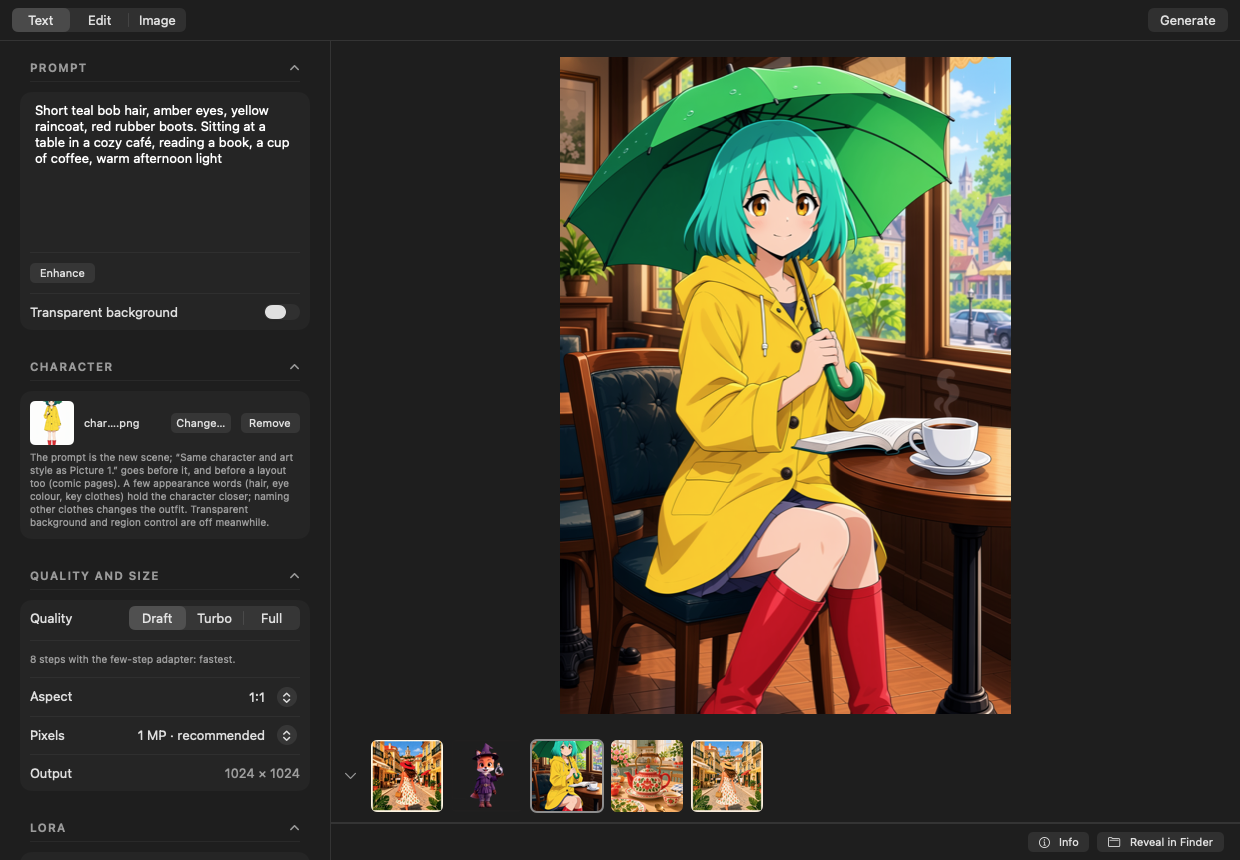
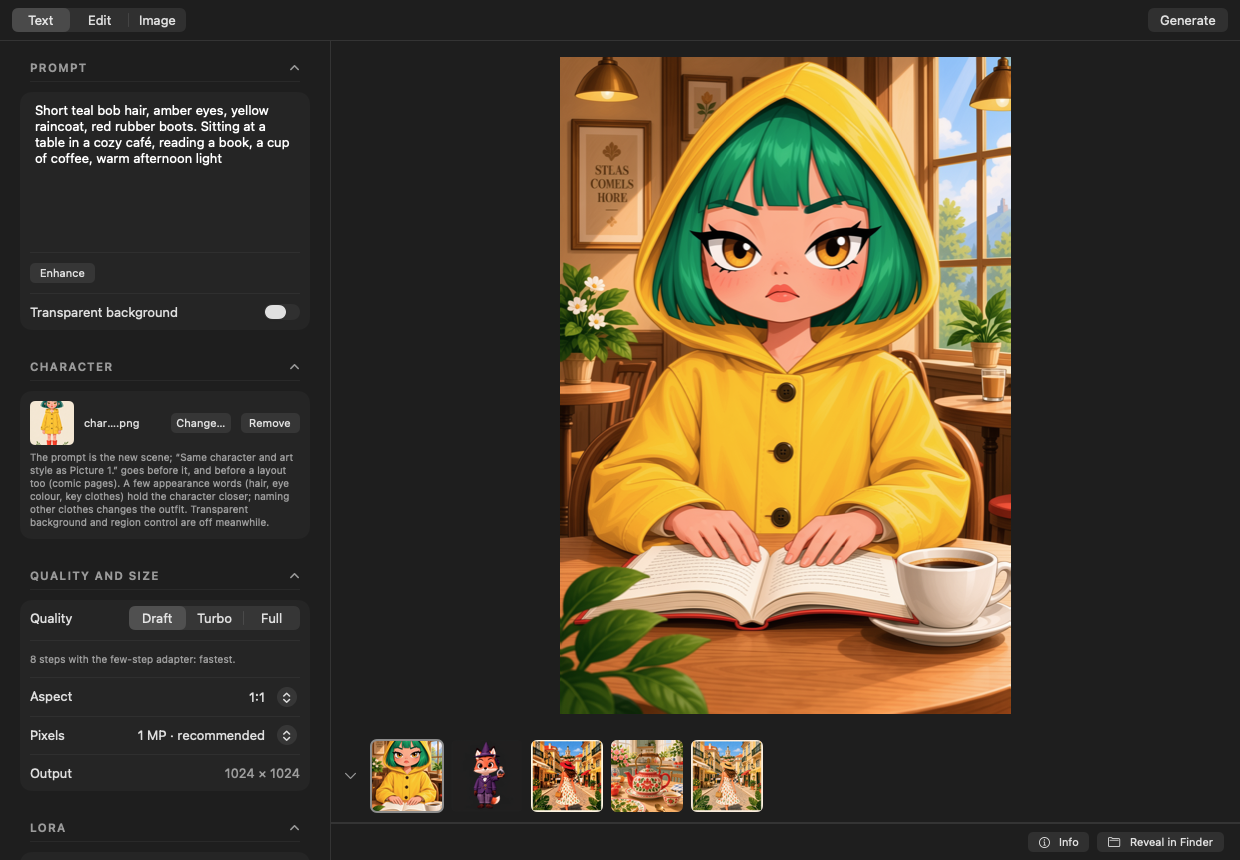
README: transparency and character images in the gouache style
The new transparency and character images were a 3D fox and an anime
character while the rest of the README is rendered with the gouache LoRA.
Re-rendered on Compact, Draft, gouache LoRA on (trigger moss_vgouache_style):
the transparent fox and the transparent fox-head/MOSS layout (gouache 1.4,
alpha LoRA), a gouache character reference and a CharRef scene from it;
the app screenshots redrawn with them. The alpha adapter keeps cutouts
smooth, so the transparent ones are only lightly painted.

Changed region(s): [[0.2758, 0.0605, 0.8274, 0.9674], [0.0, 0.4535, 0.0613, 0.5442]]

diff --git a/README.md b/README.md
@@ -38,13 +38,13 @@ CharRef v2 adapter (150 MB, downloaded on first use) and sends the picture as Pi
 on; the app puts its caption prefix "Same character and art style as Picture 1." before your prompt, or before the
 layout for comic pages. A few appearance words (hair, eye colour, key clothes) hold the character closer; naming other
 clothes changes the outfit. Made for anime and illustrated characters. CharRef was trained on the Base model but holds
-the character on the SFT tiers here: on Compact, Draft (8 steps, 43 s at 832×1216, 10.2 GB peak) kept hair, eyes,
-raincoat, boots and even the unprompted umbrella; Full (50 steps, CFG 3, 6.5 min) kept it too, no closer. Turbo takes
+the character on the SFT tiers here: on Compact, Draft (8 steps, 832×1216) kept hair, eyes and raincoat, and with the
+gouache LoRA on, the painted style too; Full (50 steps, CFG 3, 6.5 min) kept it as well, no closer. Turbo takes
 no reference picture and renders as Draft; transparency and region control are off while a character picture is set.
 
 ![Character reference in the app](docs/character-ui.png)
 
-![Character: the reference, then two new scenes on Draft](docs/character.jpg)
+![Character: the gouache reference, then a new scene on Draft](docs/character.jpg)
 
 ### Layout editor
 
